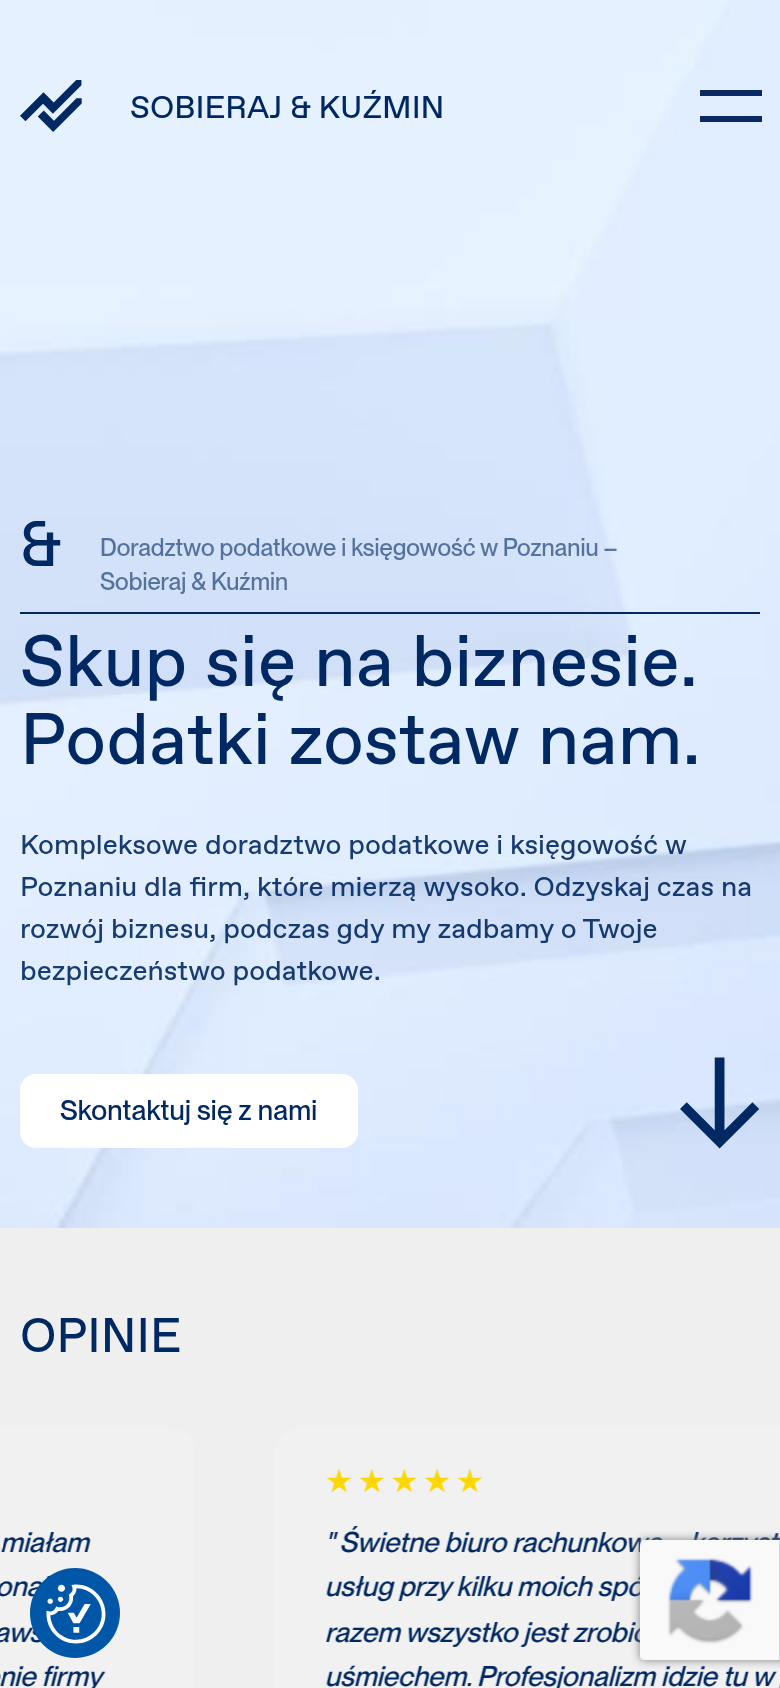
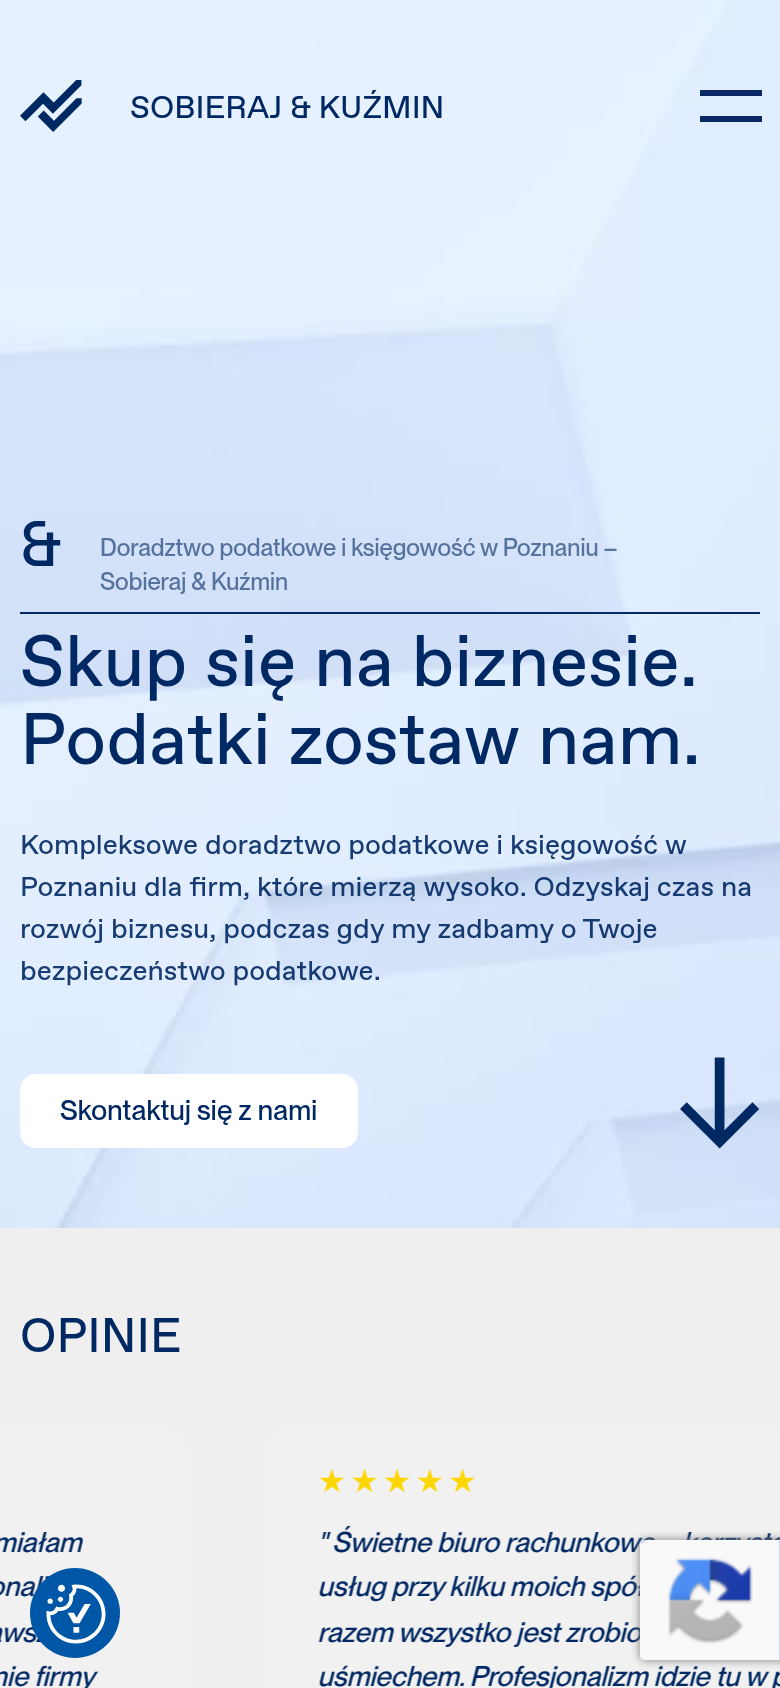
fix image bug

Changed region(s): [[0.4, 0.8626, 1.0, 1.0], [0.0, 0.8934, 0.1538, 1.0]]

diff --git a/components/RealizedProjects.vue b/components/RealizedProjects.vue
@@ -19,14 +19,20 @@
         :rtl="rtl"
       >
         <template #default="{ item }">
-          <div class="relative rounded-2xl overflow-hidden group min-h-fit">
-            <NuxtLink :to="getItemLink(item.link)">
+          <div class="relative rounded-2xl overflow-hidden group min-h-fit w-full min-w-0">
+            <NuxtLink
+              :to="getItemLink(item.link)"
+              class="block w-full min-w-0"
+            >
               <NuxtPicture
                 :src="item.image"
                 :alt="item.name"
-                class="w-full md:h-full object-cover max-h-[800px]"
+                class="block w-full max-w-full"
                 height="650"
                 width="450"
+                :img-attrs="{
+                  class: 'w-full max-w-full h-auto max-h-[800px] object-cover object-top',
+                }"
                 @load="fixLibraryBug"
               />
               <div
@@ -120,6 +126,11 @@ const filteredItems = computed(() => {
 </script>
 
 <style scoped>
+    :deep(img) {
+      max-width: 100%;
+      height: auto;
+    }
+
     @media (max-width: 1280px) {
       .glassmorphism-mobile {
         @apply border-2 border-[var(--border-color)] bg-gradient-to-bl from-[rgba(255,255,255,0.1)] to-transparent;
